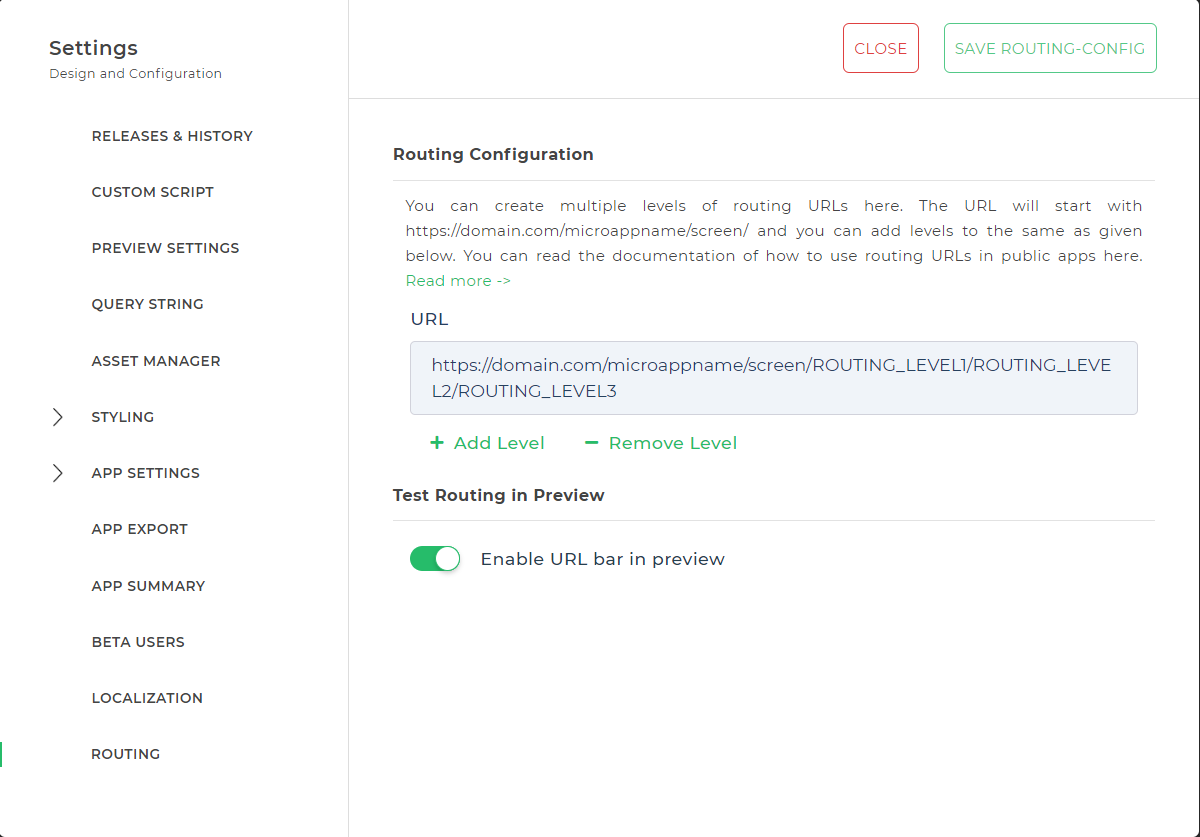
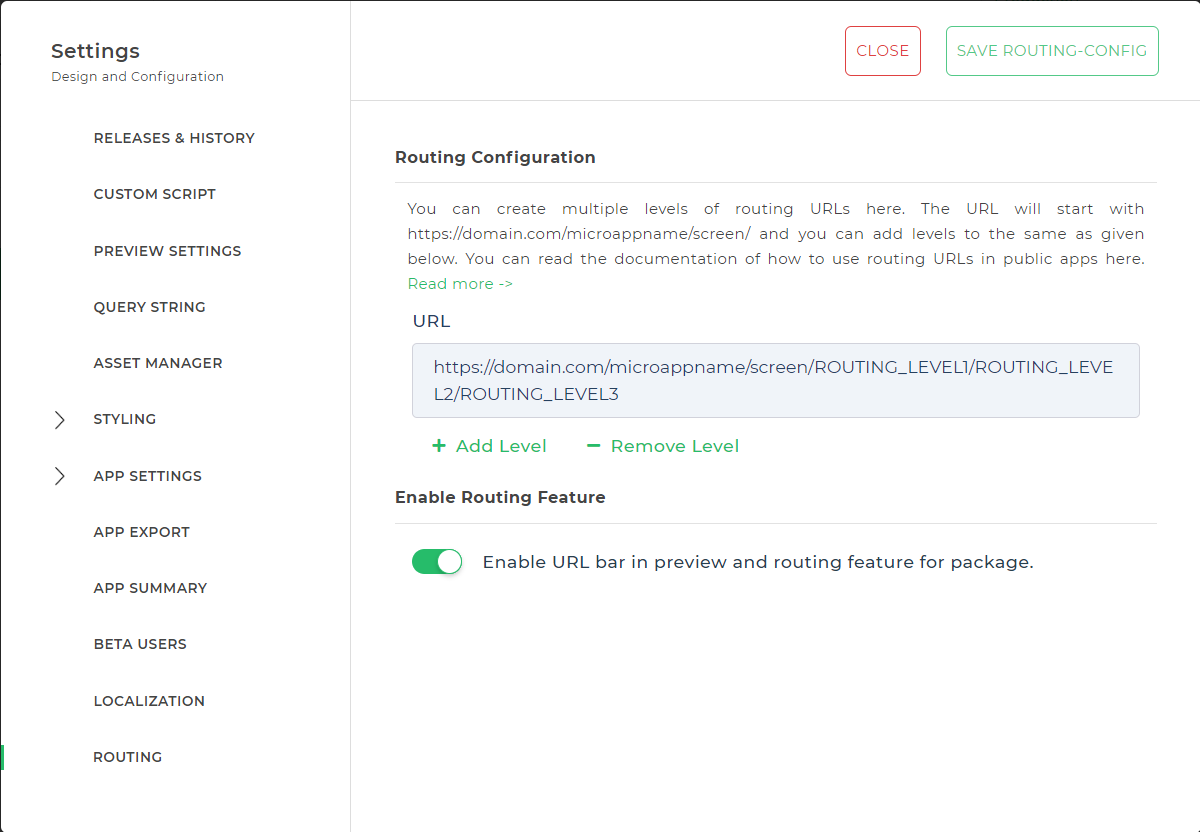
Minor Changes in screen routing and some additions
Minor Changes in screen routing and some additions in table grid article also some minor changes in control editor article

diff --git a/docusaurus.config.js b/docusaurus.config.js
@@ -28,8 +28,8 @@ const config = {
   // If you aren't using GitHub pages, you don't need these.
   organizationName: `${gitUser}`, // Usually your GitHub org/user name.
   projectName: `${gitRepo}`, // Usually your repo name.
-  onBrokenLinks: 'throw', // 'throw',
-  onBrokenMarkdownLinks: 'throw',
+  // onBrokenLinks: 'throw', // 'throw',
+  // onBrokenMarkdownLinks: 'throw',
   onDuplicateRoutes: 'throw',
   trailingSlash: true,
   staticDirectories: ['static', 'public'],

diff --git a/docs/control-editor-ide/basics.md b/docs/control-editor-ide/basics.md
@@ -411,15 +411,15 @@ There are also some system defined variables so we can use them for our control 
 
 **field_composition_type**
 
-- **single** :- in this Bind Data will look like the below image. It will always give data in string format. It is the default value for new control. Recommended to use when we are building controls that take strings as data input. 
-- **composite** :- in this Bind Data will look like the below image. It accepts data as string. 
-- **list** :- in this Bind Data will look like the below image. It accepts data as Array. Recommended to use with controls like dropdowns, checkbox, etc. 
+- **single** :- in this Bind Data will look like bind data in Text Input control. It will always give data in string format. It is the default value for new control. Recommended to use when we are building controls that take strings as data input. 
+- **composite** :- in this Bind Data will look like bind data in Address control. It accepts data as string. 
+- **list** :- in this Bind Data will look like bind data in Dropdown control. It accepts data as Array. Recommended to use with controls like dropdowns, checkbox, etc. 
 
 :::info
 if we use `attrs.field_composition_type = 'composite'` or `attrs.field_composition_type = 'list'` we have to add 1 more attribute as `attrs.field_datatypes = []` otherwise our control will give an error.
 :::
 
-- **composite_list** :- in this Bind Data will look like the below image. It accepts data as Array of objects / json objects. Recommended to use with Display / non_input controls.
+- **composite_list** :- in this Bind Data will look like Table Grid control. It accepts data as Array of objects / json objects. Recommended to use with Display / non_input controls.
 
 **action_items**
 We have to follow this structure for adding events :-

diff --git a/docs/building-apps-guides/building-interactive-tables.md b/docs/building-apps-guides/building-interactive-tables.md
@@ -146,6 +146,7 @@ this Filters by default persist when you use pagination so you wish to avoid thi
 - `Table Headers` you can set `Background`, `Font size`, `Font weight`, `Font color` and `Text alignment`.
 - `Table Data` you can set `Font size`, `Font weight` and `Text alignment`.
 - `Theme` you can set a color in `Theme` property and it will be applied to many places where color is applicable.
+- `Row Background colors` you can set different colors for odd and even rows of display them separately.
 - `columns widths` you can set `Column min width` and `Column max width` for the widths of individual columns.
 - `Checkboxes` you can set checkboxes to `Single select` or `Multi select` or `No` as per your requirements.
 - `Detail view` you can show some data in table and enable detail view to show more data, when user clicks on it a sidebar will be shown with all the data. You can also customize this as well using `Show Key Value Map` property and by toggling on `customize` you can choose which columns will be shown on detail view as well.

diff --git a/docs/screen-routing.md b/docs/screen-routing.md
@@ -33,7 +33,7 @@ This feature is only available in Public Apps which are published with routing h
     - `+ Add Level` – Click here to add a new level.
     - `- Remove Level` – Click here to remove the recent level.
 
-- **Testing Routing in Preview** - This toggle enables you to view how the URL will look like, on setting of routing levels, at the app preview level.
+- **Enable Routing Feature** - This toggle enables you to `Enable` or `Disable` routing feature and view how the URL will look like, on setting of routing levels, at the app preview level.
 
 <figure>
   <Thumbnail src="/img/advanced-concepts/screen-routing/screen-routing-config-screen.png" alt="Simple Database GUI" />
